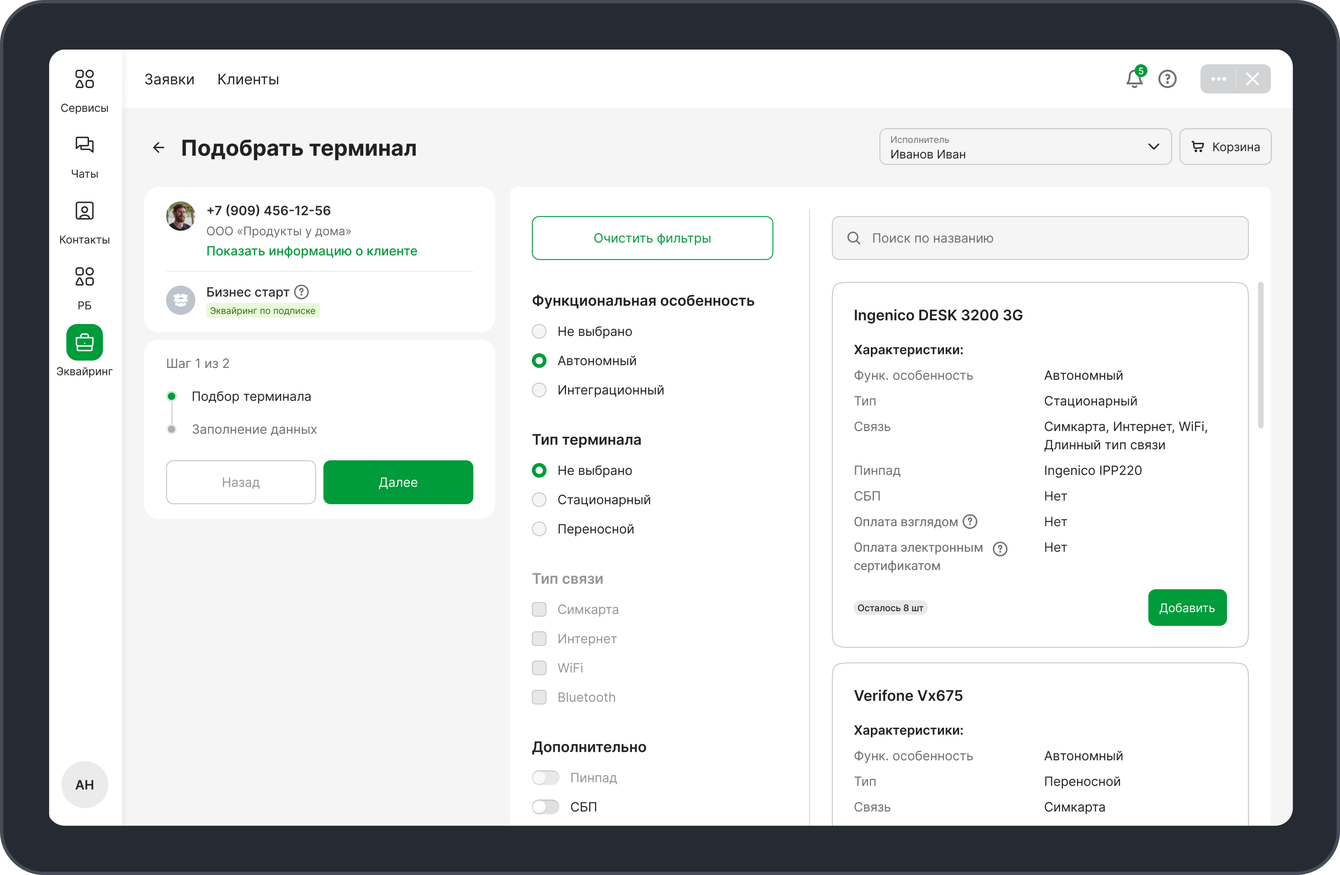
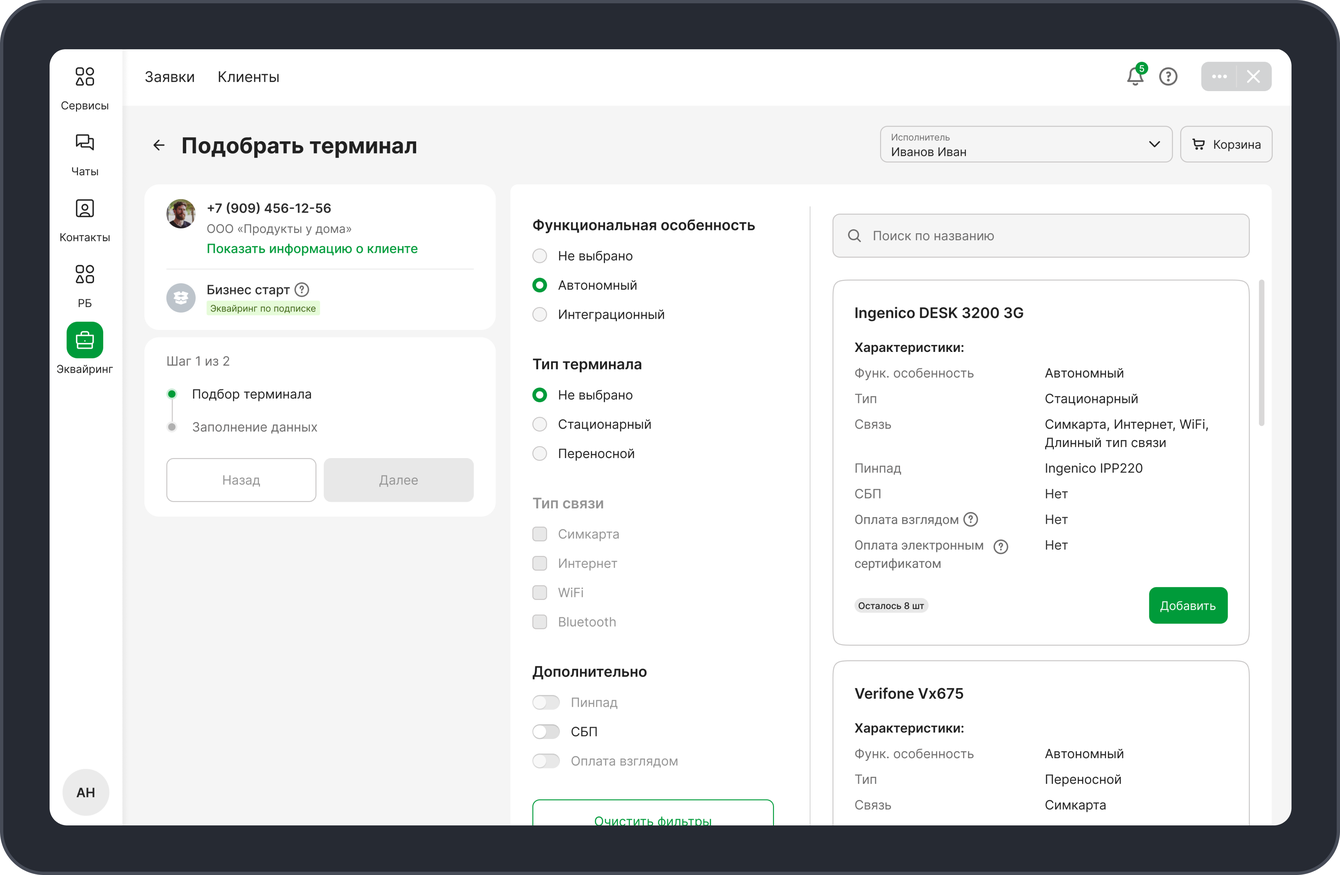
Обновлены ассеты кейса acquiring и превью кейсов из Figma; фикс RetrospectiveSection
- Перевыгружены 5 изображений acquiring (hero-main, task, feature01-03)
- Обновлены превью карточек «Эквайринг» и «Единая платформа коммуникации» + OG-копии
- Заменён кадр 1 showreel на главной на актуальный
- Новый 3-й пункт в «Что сделал бы иначе?» кейса acquiring
- Карточки RetrospectiveSection ограничены 700px, выравнивание влево (Figma 1817:6202)
- Обновлён docs/session/session-summary.md

diff --git a/src/shared/ui/organisms/RetrospectiveSection/RetrospectiveSection.module.scss b/src/shared/ui/organisms/RetrospectiveSection/RetrospectiveSection.module.scss
@@ -20,6 +20,9 @@
   display: flex;
   flex-direction: column;
   gap: var(--spacing-x10);
+  // Figma 1817:6202: карточки прижаты к левому паддингу блока (x = +24),
+  // справа остаётся пустая зона - не центр и не stretch.
+  align-items: flex-start;
   width: 100%;
   padding: var(--spacing-x10) var(--spacing-x6);
   border-radius: var(--radius-24);
@@ -28,4 +31,13 @@
   @include bp.mobile {
     padding: var(--spacing-x6) var(--spacing-x4);
   }
+}
+
+// Figma 1817:6202: инстансы "Common Cards" фиксированы в 700px.
+// Локальное значение секции: в токенах нет layout-ширины 700px (ближайшие -
+// --layout-content-max 1216, хардкод 720 у Title). Кандидат в токены при
+// переиспользовании на других страницах.
+.card {
+  width: 100%;
+  max-width: 700px;
 }

diff --git a/src/shared/ui/organisms/RetrospectiveSection/RetrospectiveSection.tsx b/src/shared/ui/organisms/RetrospectiveSection/RetrospectiveSection.tsx
@@ -24,7 +24,14 @@ export const RetrospectiveSection: React.FC<RetrospectiveSectionProps> = ({
         <Title {...titleProps} />
         <div className={styles.cardsBlock}>
           {cards.map((c, i) => (
-            <CommonCard key={i} variant={c.variant} title={c.title} description={c.description} number={c.number} />
+            <CommonCard
+              key={i}
+              className={styles.card}
+              variant={c.variant}
+              title={c.title}
+              description={c.description}
+              number={c.number}
+            />
           ))}
         </div>
       </div>

diff --git a/docs/session/session-summary.md b/docs/session/session-summary.md
@@ -2,6 +2,185 @@
 
 ## What was completed
 
+### RetrospectiveSection: карточки ограничены 700px и выровнены влево, как в Figma (17.11.2026)
+
+Владелец заметил: в кейсе acquiring блок «Что сделал бы иначе?» растягивается на всю ширину, а в
+Figma у текста ограничение 700px. Анализ подтвердил: в Figma (узел `1817:6202`) три инстанса
+«Common Cards» — fixed width **700px**, прижаты к левому паддингу чёрного блока (24px), справа
+остаётся пустая зона; заголовок секции 720px по центру. В коде ни секция, ни `CommonCard` не имели
+ограничения — flex-column растягивал карточки на всю внутреннюю ширину (1168px на десктопе).
+
+**Реализовано (без изменения общего компонента):**
+- `RetrospectiveSection.tsx`: `CommonCard` получает `className={styles.card}` (проп уже существовал).
+- `RetrospectiveSection.module.scss`: `.cardsBlock` → `align-items: flex-start`; новый `.card` →
+  `width: 100%; max-width: 700px` с комментариями и ссылкой на узел Figma. Значение локальное:
+  layout-токена 700px нет (ближайшие `--layout-content-max: 1216px`, хардкод `720px` у `Title`) —
+  кандидат в токены при переиспользовании. Чёрный блок остаётся полноширинным, как в макете.
+- `CommonCard` и другие секции не тронуты (`GoalsSection`/`ProblemSection`/`ContextSection`/
+  `DecisionSection` используют свои ограничения через `className`/`> *`).
+
+Проверки: `type-check` ✅, `lint` ✅, `build` ✅, `build-storybook` ✅. Визуальная QA в браузере
+(700px колонка, левое выравнивание, мобильный full-width) — за владельцем.
+
+**Файлы:** `src/shared/ui/organisms/RetrospectiveSection/RetrospectiveSection.tsx`,
+`RetrospectiveSection.module.scss`, `docs/session/session-summary.md`.
+
+### Кейс «Эквайринг»: новый 3-й пункт в «Что сделал бы иначе?» (17.11.2026)
+
+По тексту владельца заменена третья карточка `RetrospectiveSection` (`key: retrospective`, `case.json`):
+
+- Заголовок: «Быстрее собирал бы модель продукта» → **«Считал бы цену временных решений»**
+- Описание: «На старте многие решения принимались в условиях высокой неопределенности…» → **«Flow
+  интеграционных терминалов оказался неочевидным для менеджеров. Закрыли быстрым решением, но при
+  высокой текучке каждый новичок проходил его заново — переделка два года не получала приоритет.
+  Сегодня замерял бы попытки и подсказки новичка до первого верного оформления и умножал на поток
+  найма.»**
+
+Карточки 1–2, структура секции, `figmaNode`, номера/варианты не тронуты.
+
+Проверки: JSON валиден, `type-check` ✅, `lint` ✅, `build` ✅.
+
+**Файлы:** `src/content/cases/acquiring/case.json`, `docs/session/session-summary.md`.
+
+### Showreel на главной: кадр 1 (эквайринг) заменён на актуальный из Figma (17.11.2026)
+
+**Задача от владельца:** заменить изображение эквайринга в анимированном шоукейсе hero на актуальное
+(`node-id=33313-8547`).
+
+**Figma-узел `33313:8547`:** RECTANGLE `showreel01`, 1216×793, image-fill с imageRef
+`18af3d58e9f5cc04a8aedec67082bdd1bb71a18e` — тот же исходник, что используется в новом превью
+кейса chat (`image 815`), то есть свежий скриншот экрана «Подобрать терминал» (состояние с
+disabled «Далее»).
+
+**Реализовано:**
+- Raw-ассет скачан через `GET /v1/files/{key}/images` по imageRef узла → **3648×2382**
+  (было 2432×1586). Пропорция 3648/2382 = 1.5315 **точно совпадает со слотом** `.showreel`
+  (`aspect-ratio: 1216 / 794`), т.е. кадр 1 теперь заполняет слот без полей (раньше 2432×1586 =
+  1.5334, давал микрополя при `object-fit: contain`).
+- `src/content/home/images/showreel-1.png` перезаписан (319 КБ → 518 КБ), имя/импорт/`data.ts` не
+  менялись.
+- Кадры 2 и 3 не тронуты (актуальные ссылки на них не давались); известный открытый пункт про
+  пропорцию кадра 3 (1.4439 vs 1.5315) остаётся.
+
+Проверки: `type-check` ✅, `lint` ✅, `build` ✅ (`showreel-1-DYkx62-T.png` 517.61 КБ в `dist`).
+Визуальная QA ротации на главной — за владельцем.
+
+**Не сделано:** деплой (владелец делает сам).
+
+**Файлы:** `src/content/home/images/showreel-1.png` (перезаписан),
+`docs/session/session-summary.md`.
+
+### Превью кейса «Единая платформа коммуникации» заменено на обновлённое из Figma (17.11.2026)
+
+**Задача от владельца:** заменить превью кейса chat на обновлённое изображение из Figma
+(`node-id=33297-4499`).
+
+**Figma-узел `33297:4499`:** GROUP `preview-chat-platform`, 464×384 — синий тинт
+`rgba(33,117,240,.18)` r16 (33297:4498) + image-узел 33297:4501 «image 815» (новый imageRef
+`544cc4f4…`, 434×356, STRETCH). В обновлении кроп сдвинут/приближен: правая панель «Клиент»
+больше не попадает в кадр.
+
+**Реализовано:**
+- Узел отрендерен `@2x` → **928×768** (размер слота карточки).
+- `src/content/home/images/case-chat-platform.png` перезаписан (153 КБ → 145 КБ).
+- `public/og-chat.png` перезаписан тем же файлом (OG-превью кейса).
+- Код не менялся: размеры прежние, `og:image:width/height` (928/768) в `CasePage.tsx` корректны.
+
+Проверки: `type-check` ✅, `lint` ✅, `build` ✅ (`case-chat-platform-Cd4ugQGS.png` 145.12 КБ в
+`dist`, `dist/og-chat.png` 928×768 совпадает по хешу). Визуальная QA карточки — за владельцем.
+
+**Не сделано:** деплой (владелец делает сам).
+
+**Файлы:** `src/content/home/images/case-chat-platform.png`, `public/og-chat.png` (перезаписаны),
+`docs/session/session-summary.md`.
+
+### Превью кейса «Эквайринг» на главной заменено на обновлённое из Figma (17.11.2026)
+
+**Задача от владельца:** найти превью кейса acquiring в проекте и заменить его на обновлённое
+изображение из Figma (`node-id=33382-5810`).
+
+**Найденное превью:** витрина кейсов на главной — `src/content/home/images/case-ekvairing.png`
+(импортируется в `src/app/pages/Home/data.ts`, карточка `HomeCaseCard`, слот 464×384 @2x).
+Точная байт-копия того же файла лежит в `public/og-acquiring.png` (OG-превью кейса для соцсетей,
+`CasePage.tsx` → `og:image`, `imageWidth/Height: 928/768`).
+
+**Figma-узел `33382:5810`:** GROUP `preview-ekvairing`, 464×384, состав — зелёный тинт
+`rgba(0,155,58,.18)` r16 (33382:5811) + image-узел 33382:5812 «image 815» (новый imageRef
+`18af3d58…`, 434×356, STRETCH). Содержимое обновилось: другой масштаб/кроп и состояние экрана
+(у кнопки «Далее» disabled-стиль, у фильтров нет кнопки «Очистить фильтры»).
+
+**Реализовано:**
+- Узел отрендерен через `GET /v1/images/{key}?ids=33382:5810&format=png&scale=2` → **928×768**
+  (ровно размер слота карточки, `object-fit: fill` не искажает).
+- `src/content/home/images/case-ekvairing.png` перезаписан (87 КБ → 94 КБ).
+- `public/og-acquiring.png` перезаписан тем же файлом (поддержка синхронности OG-превью).
+- Код **не менялся**: размеры прежние 928×768, значит `og:image:width/height` в `CasePage.tsx`
+  остаются корректными; ссылки/`alt`/`data.ts` не тронуты.
+- Углы: тинт-прямоугольник r16 → прозрачные углы в PNG; слот карточки уже скруглён CSS
+  (`border-radius: 16px; overflow: hidden`), белый нижний-правый угол рендера обрезается CSS —
+  визуально как раньше.
+
+Проверки: `type-check` ✅, `lint` ✅, `build` ✅ (`case-ekvairing-hHPr7smR.png` 93.75 КБ в `dist`,
+`dist/og-acquiring.png` 928×768 совпадает по хешу). Визуальная QA карточки на главной — за владельцем.
+
+**Не сделано:** деплой (владелец делает сам).
+
+**Файлы:** `src/content/home/images/case-ekvairing.png`, `public/og-acquiring.png` (перезаписаны),
+`docs/session/session-summary.md`.
+
+### Перевыгрузка изображений кейса «Эквайринг» из Figma — выполнено (17.11.2026)
+
+**Задача от владельца:** перевыгрузить изображения кейса acquiring из Figma по 5 ссылкам.
+
+**Вводные (Figma file `i3ANEQ3o83zbqvSqYGSYBC`):**
+1. `1799:8780` — Hero Section → image-узел `33236:6340` («hero-main», 1216×794)
+2. `1807:7811` — Feature Section → image-узел `33236:6273` («task», 1216×761)
+3. `1834:6402` → группа `Group 270988924` = карточка 1 `GrowthSection`, image-узел `1834:6393` («feature01», 782×414)
+4. `1834:6403` → группа `Group 270988925` = карточка 2, image-узел `1834:6412` («feature02», 782×763)
+5. `1834:6414` → группа `Group 270988926` = карточка 3, image-узел `1834:6421` («feature03», 782×451)
+
+Открытый вопрос прошлой сессии закрыт данными Figma: три «неизвестных» узла — это ровно три картинки
+`GrowthSection`, причём их внутренние image-узлы **совпадают** с уже прописанными в `case.json`
+`figmaNode` (`1834:6393`/`1834:6412`/`1834:6421`) — ничего не «переезжало», JSON был актуален.
+
+**Доступ:** токен в User-переменных Windows обновлён владельцем и валиден (`GET /v1/me` → 200), но
+запущенный процесс opencode держал в окружении старый просроченный PAT (`figd_NNo9f…`), поэтому
+MCP продолжал отдавать `403 Token expired`. Обход без перезапуска: работа через Figma REST API
+напрямую из PowerShell с токеном из User-переменных. **Для будущих сессий:** чтобы MCP снова
+работал, нужен полный перезапуск opencode (он подхватит новый `FIGMA_API_KEY`).
+
+**Реализовано:**
+- Через `GET /v1/files/{key}/nodes?ids=…` получены 5 узлов и их image-fill'ы; через
+  `GET /v1/files/{key}/images` получены прямые ссылки на raw-ассеты по imageRef.
+- Все 5 imageRef оказались новыми (содержимое в Figma обновилось): `hero-main` 3648×2382,
+  `task` 3648×2283, `feature01` 4080×2160, `feature02` 4086×3990 (+2px по высоте),
+  `feature03` 4086×2358 (+2px по ширине). Скачаны в исходном разрешении (как и прежние файлы —
+  raw-ассеты, не рендер узла).
+- Файлы перезаписаны с сохранением имён (рекомендация прошлой сессии): `hero-main.png`, `task.png`,
+  `feature01.png`, `feature02-104f8e.png`, `feature03-878d3d.png`.
+- `case.json` **не менялся**: `figmaNode`/`src`/`alt` остались актуальными, `imageRef` в схеме не
+  хранится. Порядок секций/структура не тронуты.
+- Визуально проверены все 5 новых изображений: соответствуют своим секциям (hero — подбор
+  терминала, task — тот же экран с нумерованными аннотациями, feature01-03 — история заявки,
+  данные договора, замена терминала).
+
+Проверки: `type-check` ✅, `lint` ✅, `build` ✅ (169 модулей; в `dist` новые
+`hero-main-mT1-AAN4.png` 518 КБ, `task-IBkTt_Jp.png` 511 КБ, `feature01-BPmNfR8C.png` 269 КБ,
+`feature02-104f8e-CsGANuI6.png` 787 КБ, `feature03-878d3d-ByzjflQ2.png` 463 КБ). JSON валиден.
+
+**Не сделано:** деплой (владелец делает сам). Визуальная QA страницы кейса в браузере — за
+владельцем.
+
+**Файлы:** `src/content/cases/acquiring/images/hero-main.png`, `task.png`, `feature01.png`,
+`feature02-104f8e.png`, `feature03-878d3d.png` (перезаписаны), `docs/session/session-summary.md`.
+
+### Удалена локальная папка `.claude` (17.11.2026)
+
+По запросу владельца удалена локальная (нетрекаемая) папка `.claude/` с `settings.local.json` —
+разрешения Claude Code, которые больше не используются. Папка не входила в git никогда (игнорировалась
+глобальным `~/.config/git/ignore`), на GitHub её и не было, поэтому на историю/деплой это не влияет.
+Никаких изменений в отслеживаемых файлах проекта нет.
+
 ### Резюме PDF на сайте (15.10.2026)
 
 По ТЗ владельца (анализ → отчёт → подтверждение → реализация → проверка → документация) размещено
@@ -983,19 +1162,25 @@ legacy-проект (`C:\Users\mp3ps\Documents\portfolio`) и архитекту
 
 ## Next recommended task
 
-Визуальная QA сегодняшней пачки правок (главная + кейсы chat/acquiring) в браузере, затем решить
-судьбу баланса карточек «Опыт» (stretch vs высота по контенту). После этого — **Итерация A «Кейсы»**
-(последний пункт: удалить orphan `scroll.svg`).
+Владельцу: визуально проверить `/case/acquiring` с новыми изображениями (hero-main, task,
+feature01–03), обновлённым 3-м пунктом «Что сделал бы иначе?» и новой 700px-колонкой карточек
+ретроспективы, карточки «Эквайринг» и «Единая платформа коммуникации» на главной (новые превью),
+шоурек hero (новый кадр 1) и задеплоить. В следующей AI-сессии — полный перезапуск opencode
+(подхватит новый `FIGMA_API_KEY`, восстановит Figma MCP). Затем — визуальная QA накопленной пачки
+правок (главная + кейсы chat/acquiring), баланс карточек «Опыт» (stretch vs высота по контенту),
+**Итерация A «Кейсы»** (удалить orphan `scroll.svg`).
 
 ## Suggested prompt for the next session
 
 ```text
-Продолжи проект portfolio-ai. Сначала: визуальная QA в браузере — главная (hero-тексты, карточки
-«Опыт»: баланс высоты трёх карточек — если пустоты во 2-й/3-й заметны, убрать align-items: stretch
-у .cards в HomeExperienceSection.module.scss и дать высоту по контенту; заголовок «Что я умею»),
-кейс chat (substatuses/scenarios-split/retrospective/results) и кейс acquiring (results/retrospective).
-Затем финальный пункт Итерации A «Кейсы»: удалить неиспользуемый src/content/home/images/scroll.svg.
-Проверки: npm.cmd run type-check, lint, build, build-storybook. Завершить обновлением session-summary.
+Продолжи проект portfolio-ai. Первым делом проверь, что Figma MCP снова отвечает (нужен полный
+перезапуск opencode после обновления FIGMA_API_KEY — в прошлой сессии MCP держал старый токен,
+работали через Figma REST API). Затем визуальная QA в браузере: /case/acquiring с перевыгруженными
+изображениями (hero-main, task, feature01–03), а также главная (карточки «Опыт»: если пустоты во
+2-й/3-й заметны — убрать align-items: stretch у .cards в HomeExperienceSection.module.scss) и кейс
+chat. Потом финальный пункт Итерации A «Кейсы»: удалить неиспользуемый
+src/content/home/images/scroll.svg. Проверки: npm.cmd run type-check, lint, build, build-storybook.
+Завершить обновлением session-summary.
 ```
 
 ---
